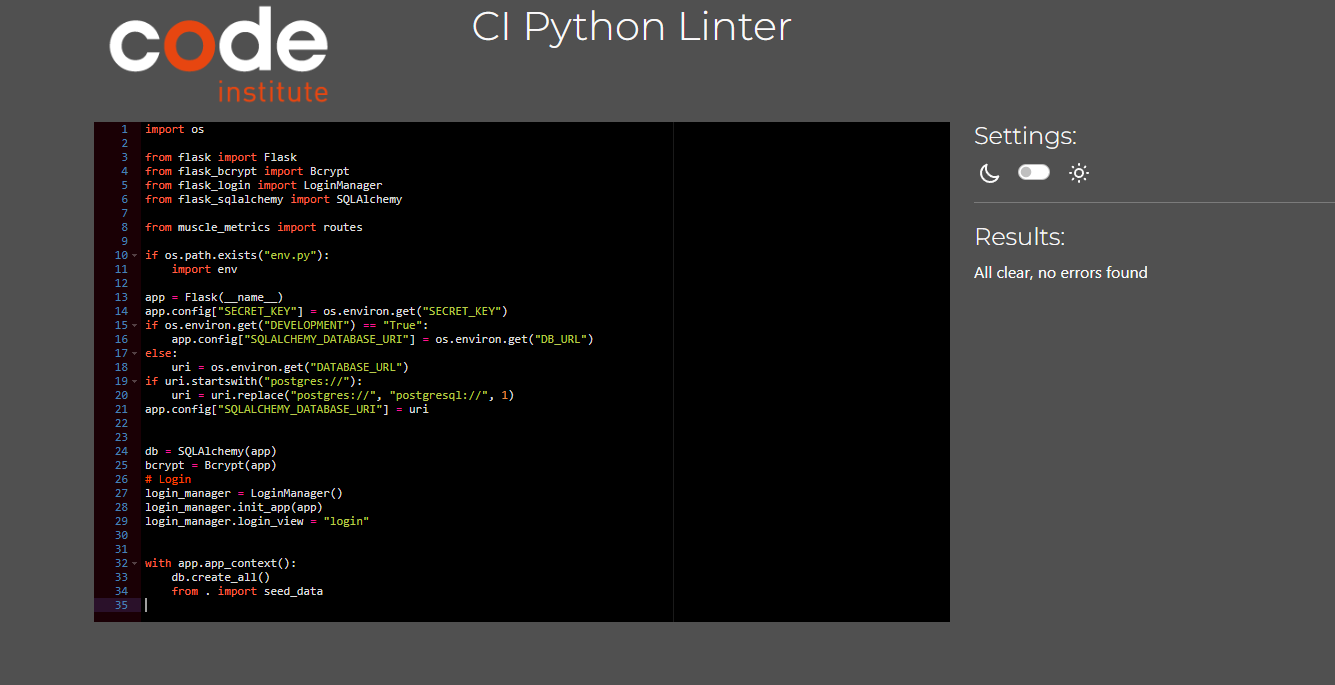
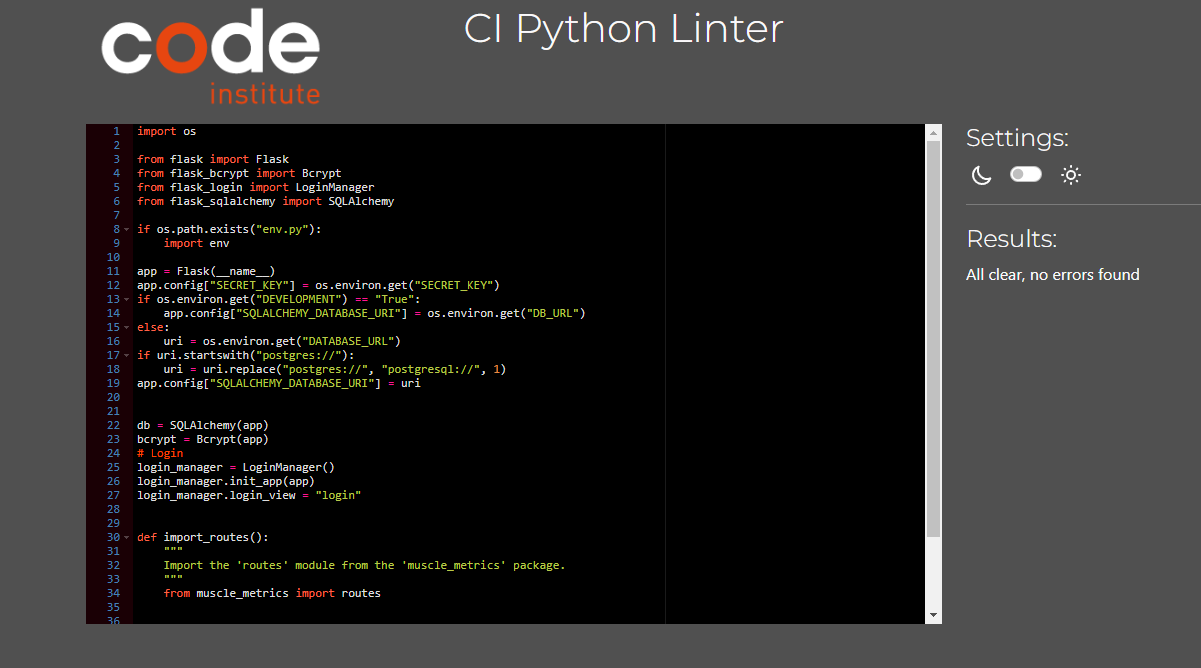
refactor init.py

Changed region(s): [[0.0616, 0.0, 0.955, 0.9581], [0.3389, 0.0, 0.647, 0.0599]]

diff --git a/muscle_metrics/__init__.py b/muscle_metrics/__init__.py
@@ -5,8 +5,6 @@ from flask_bcrypt import Bcrypt
 from flask_login import LoginManager
 from flask_sqlalchemy import SQLAlchemy
 
-from muscle_metrics import routes
-
 if os.path.exists("env.py"):
     import env
 
@@ -28,6 +26,15 @@ login_manager = LoginManager()
 login_manager.init_app(app)
 login_manager.login_view = "login"
 
+
+def import_routes():
+    """
+    Import the 'routes' module from the 'muscle_metrics' package.
+    """
+    from muscle_metrics import routes
+
+
+import_routes()
 
 with app.app_context():
     db.create_all()
